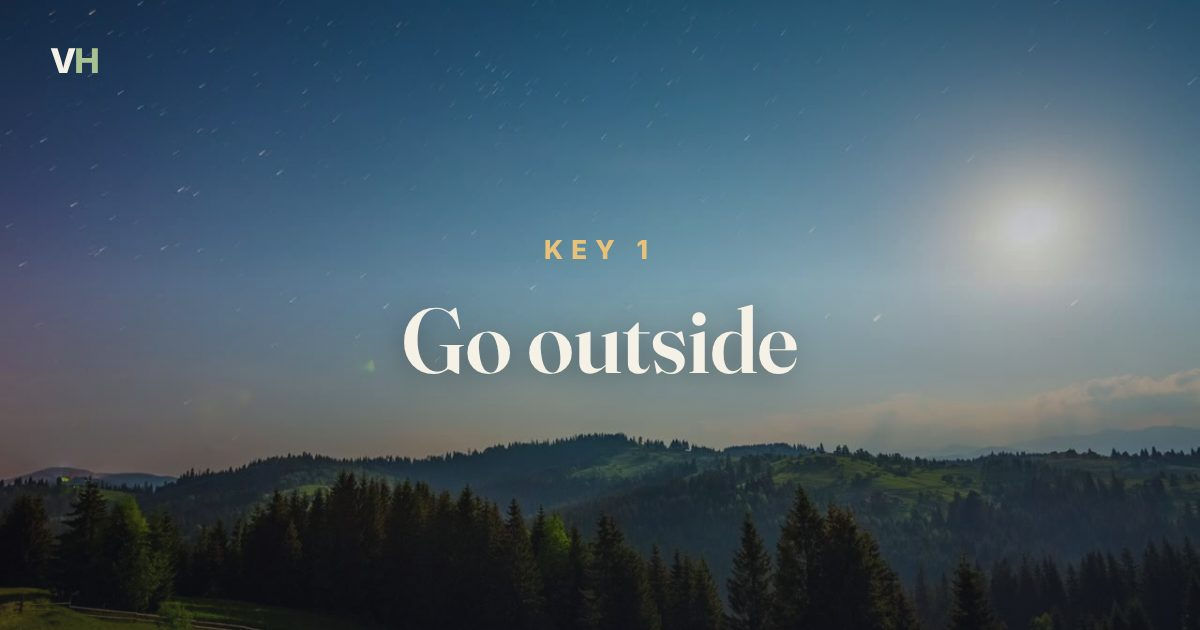
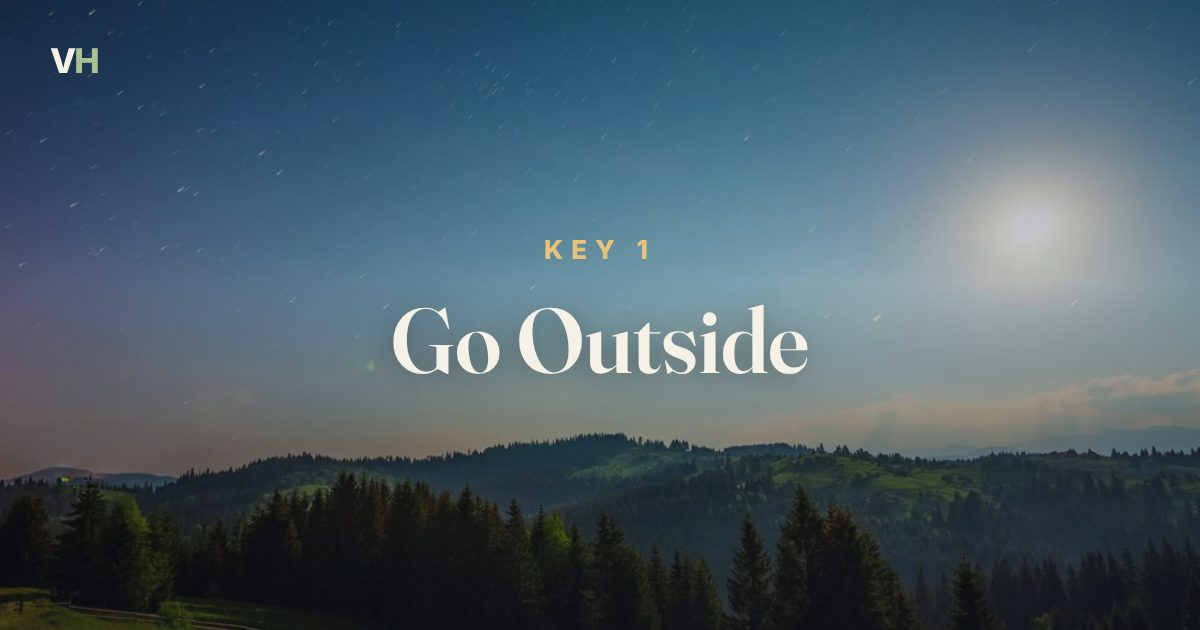
Add files via upload

Changed region(s): [[0.3083, 0.4825, 0.6783, 0.6032]]

diff --git a/public/morning/index.html b/public/morning/index.html
@@ -120,7 +120,7 @@ function submit(e){e.preventDefault();var g=document.getElementById("g");g.disab
 function unlock(first){
  app.innerHTML=mark()+'<div class="lock"><div class="ring">VH</div><div class="tag">Unlocking your first key, '+esc(first)+'</div></div>';
  setTimeout(function(){
-  app.innerHTML=mark()+'<div class="panel"><div class="kicker">Key 1</div><div class="q">Go outside</div><video class="film" id="film" src="'+FILM+'" controls playsinline autoplay preload="auto"></video><div id="after" class="fade"></div></div>';
+  app.innerHTML=mark()+'<div class="panel"><div class="kicker">Key 1</div><div class="q">Go Outside</div><video class="film" id="film" src="'+FILM+'" controls playsinline autoplay preload="auto"></video><div id="after" class="fade"></div></div>';
   var f=document.getElementById("film");try{f.play();}catch(err){}
   var shown=false;function after(){if(shown)return;shown=true;var a=document.getElementById("after");
    a.innerHTML='<div class="q" style="font-size:20px;margin-bottom:10px">One word for how you feel now?</div><div class="grid2">'+WORDS.map(function(w){return '<button class="opt" type="button">'+esc(w)+'</button>';}).join("")+"</div>";
